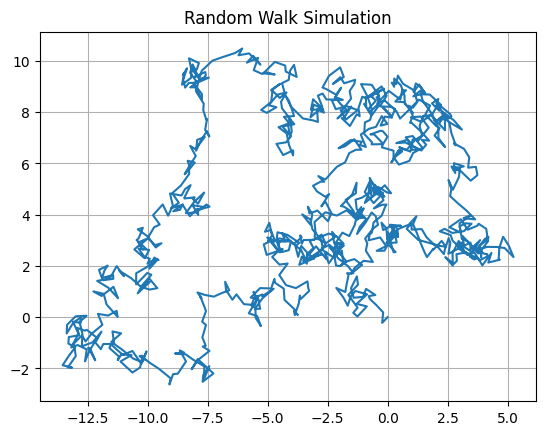
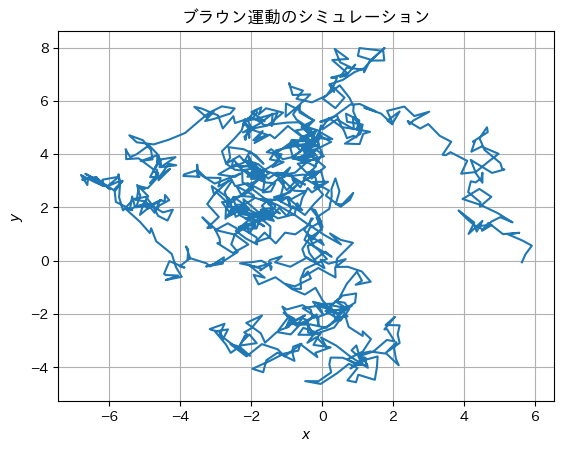
2025-11-18 13:29

diff --git a/py53.html b/py53.html
@@ -380,8 +380,9 @@ plt.show()
       <p>液体や気体中の微小な粒子が見せる不規則かつランダムな動きのことを<strong>ブラウン運動</strong>といいます。次の例では、初期座標(0, 0)にあった粒子が、どのように移動するかをシミュレーションしています。</p>
       
       <pre class="python" data-title="ブラウン運動のシミュレーション"><code>
-import random
 import matplotlib.pyplot as plt
+import japanize_matplotlib
+import random
 
 # 移動回数
 n = 1000
@@ -392,12 +393,16 @@ y = [0]
 
 # ランダムウォークのシミュレーション
 for i in range(n):
-  x.append(x[i] + random.random() - 0.5)
-  y.append(y[i] + random.random() - 0.5)
+    dx = random.random() - 0.5
+    dy = random.random() - 0.5
+    x.append(x[i] + dx)
+    y.append(y[i] + dy)
 
 # グラフを表示
 plt.plot(x, y)
-plt.title("Random Walk Simulation")
+plt.title("ブラウン運動のシミュレーション")
+plt.xlabel("$x$")
+plt.ylabel("$y$")
 plt.grid(True)
 
 plt.show()
